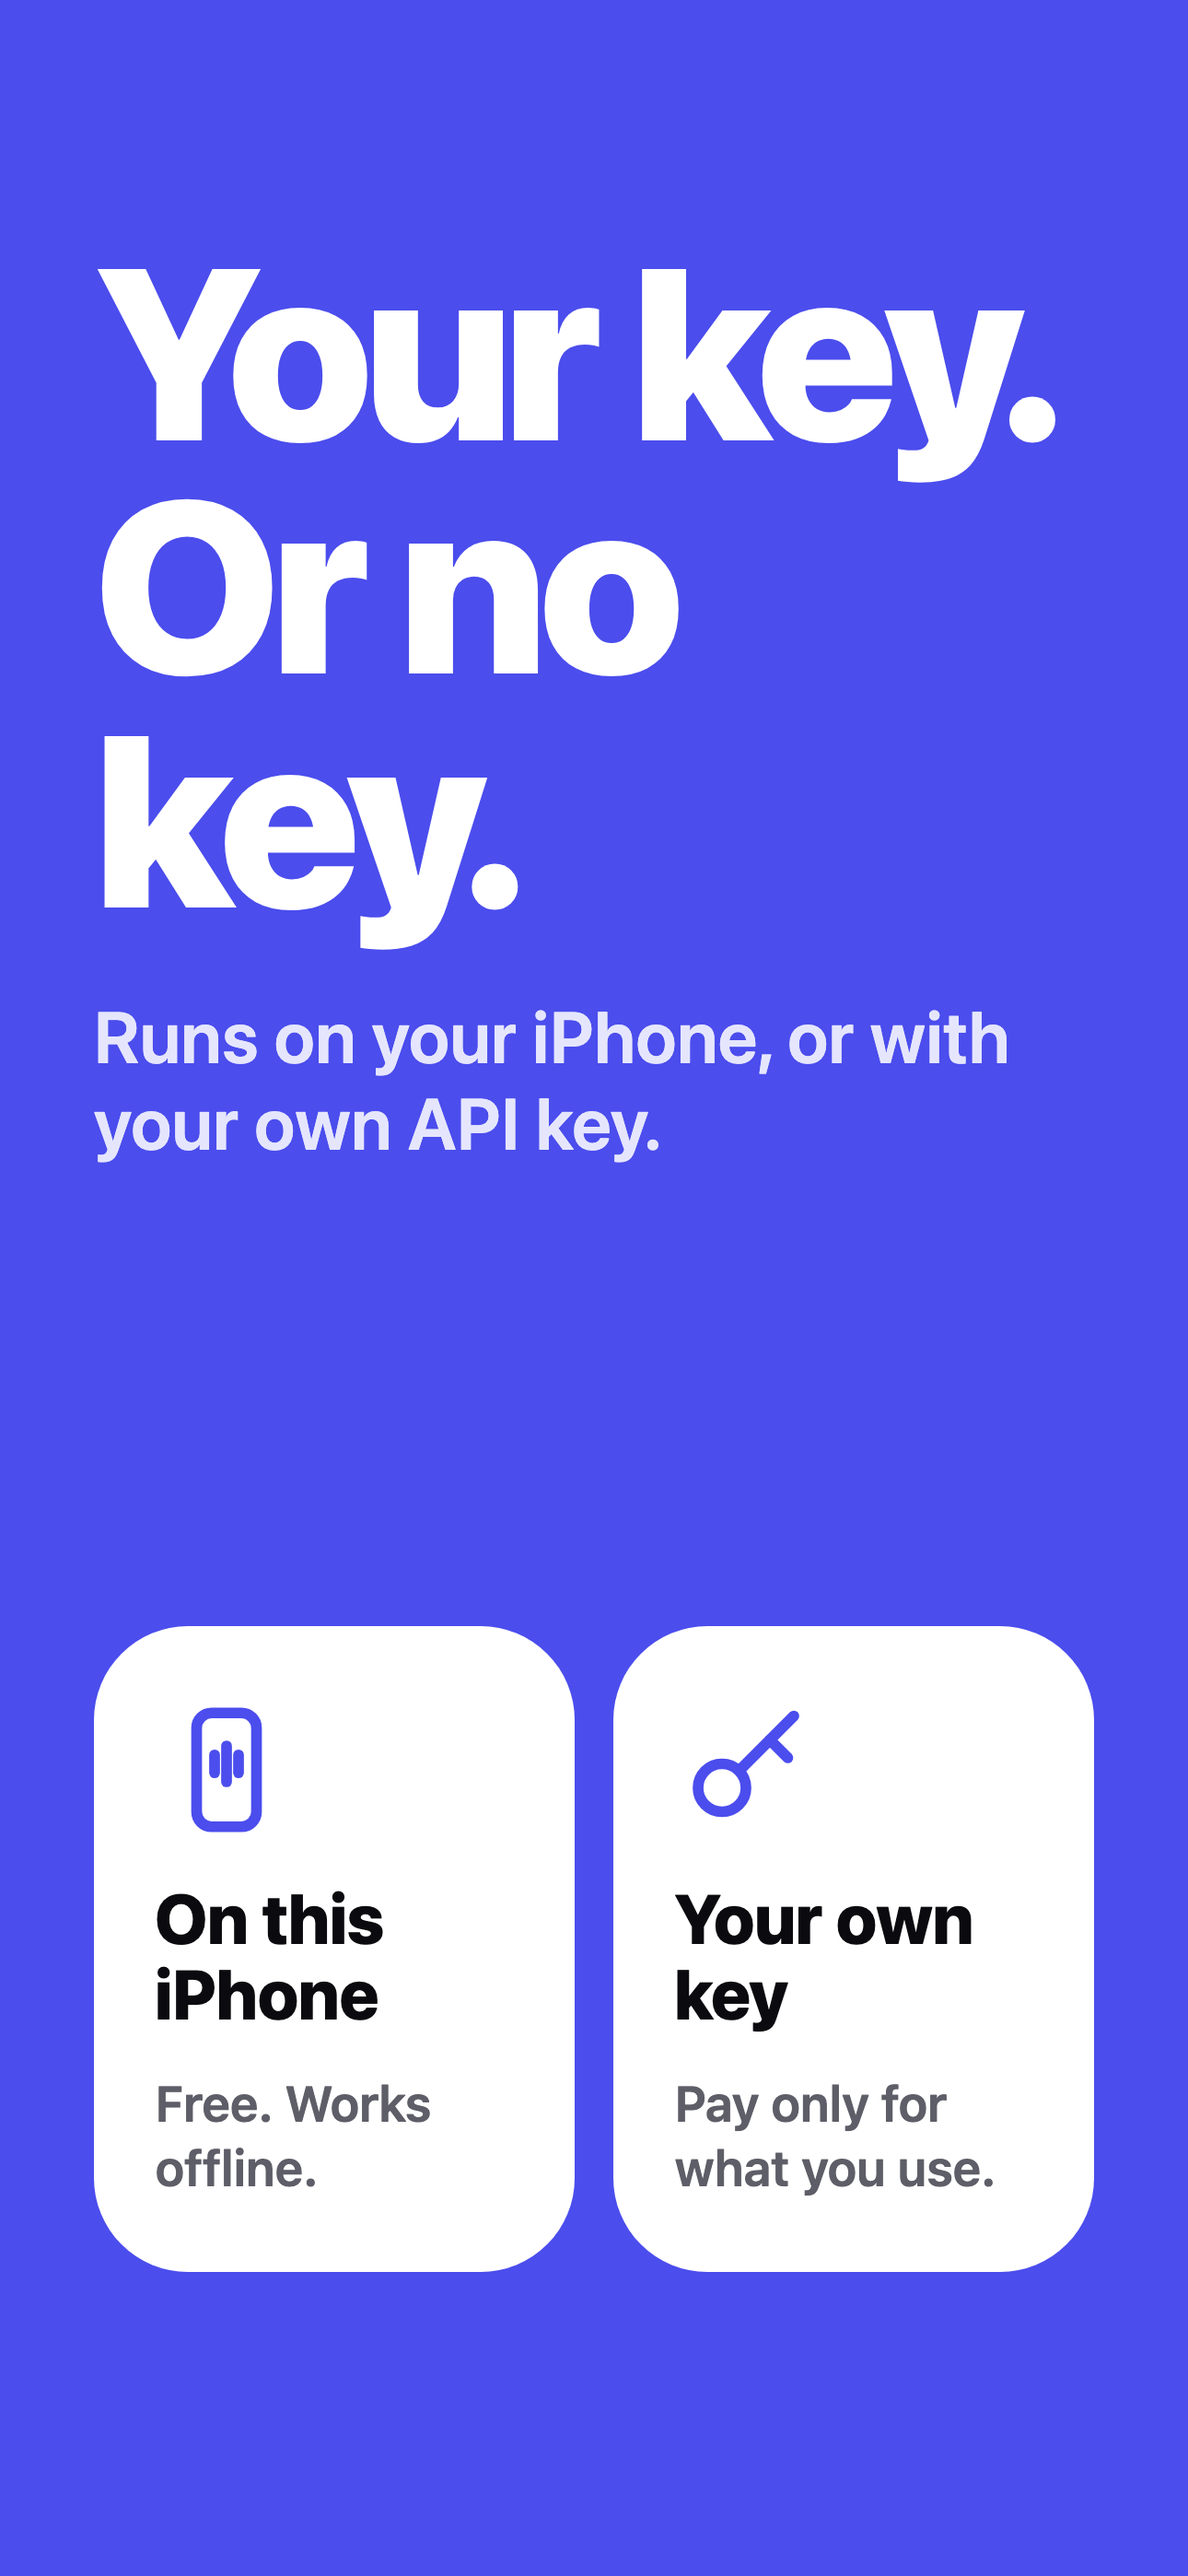
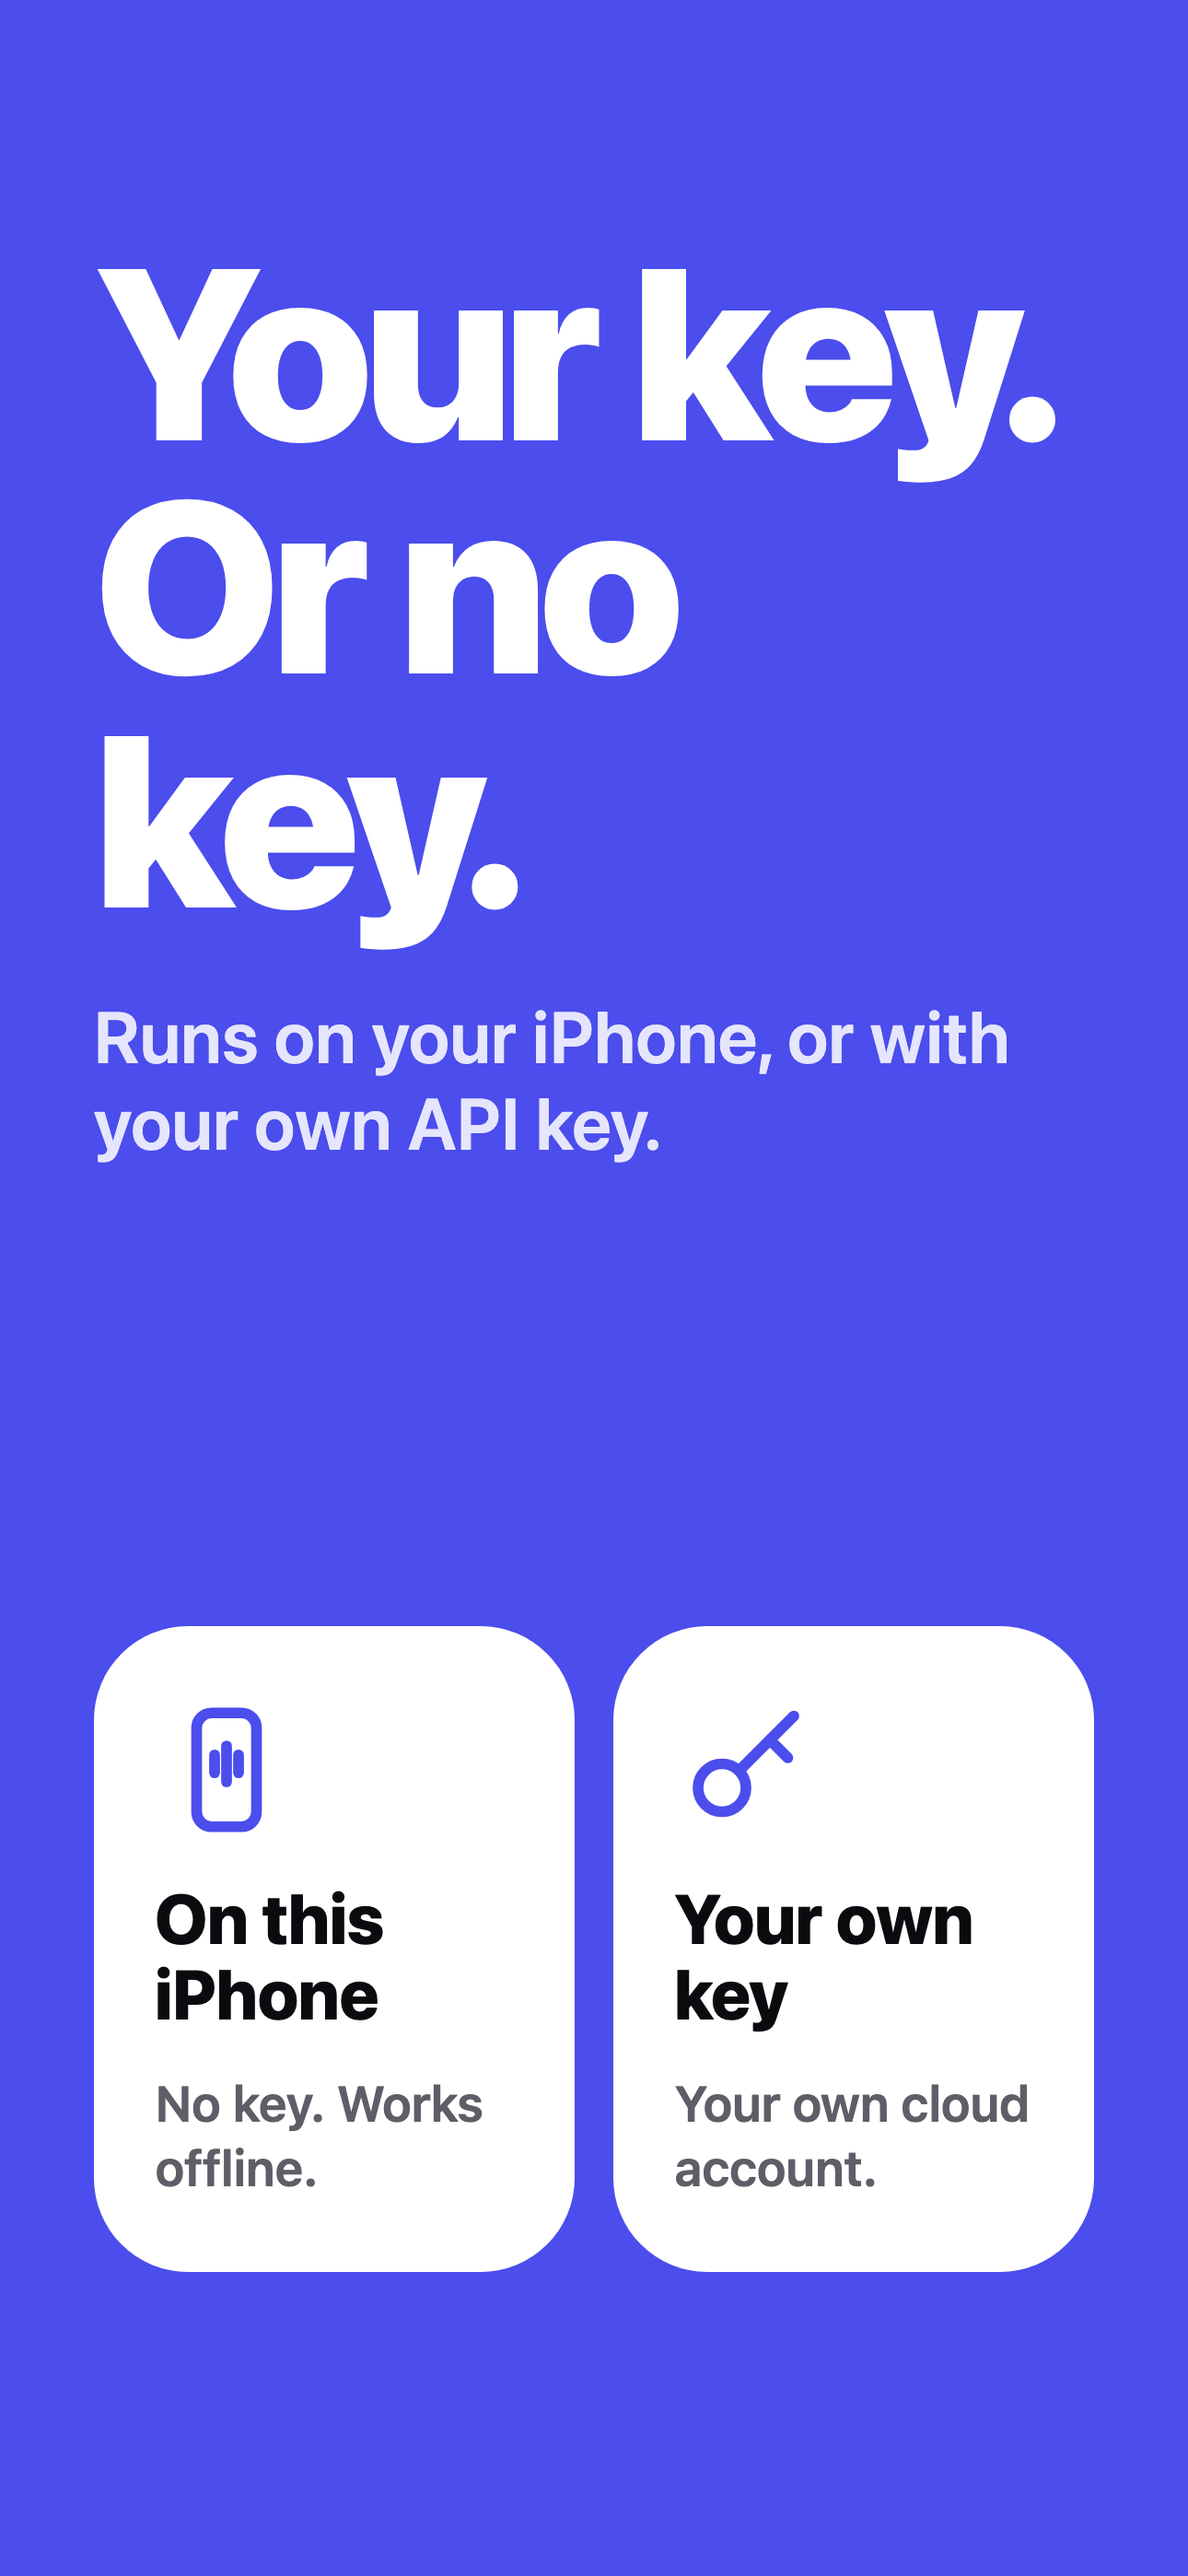
Store screenshot 3 without price words

Changed region(s): [[0.5581, 0.809, 0.8682, 0.8712], [0.124, 0.809, 0.4031, 0.8401]]

diff --git a/metadata/screenshots/source/3.html b/metadata/screenshots/source/3.html
@@ -6,12 +6,12 @@
       <div style="flex: 1; display: flex; flex-direction: column; align-items: flex-start; gap: 14px; padding: 26px 22px; border-radius: 34px; background: #FFFFFF; color: #0B0B0F">
         <svg aria-hidden="true" width="52" height="52" viewBox="0 0 24 24" fill="none" stroke="#4B4DED" stroke-width="1.8" stroke-linecap="round" stroke-linejoin="round"><rect x="7" y="2.5" width="10" height="19" rx="2.5"></rect><path d="M10 9.5v3"></path><path d="M12 8v6"></path><path d="M14 9.5v3"></path></svg>
         <div style="font-size: 25px; line-height: 1.1; font-weight: 800; letter-spacing: -0.01em">On this iPhone</div>
-        <div style="font-size: 18px; line-height: 1.3; font-weight: 600; color: #5E5E68">Free. Works offline.</div>
+        <div style="font-size: 18px; line-height: 1.3; font-weight: 600; color: #5E5E68">No key. Works offline.</div>
       </div>
       <div style="flex: 1; display: flex; flex-direction: column; align-items: flex-start; gap: 14px; padding: 26px 22px; border-radius: 34px; background: #FFFFFF; color: #0B0B0F">
         <svg aria-hidden="true" width="52" height="52" viewBox="0 0 24 24" fill="none" stroke="#4B4DED" stroke-width="1.8" stroke-linecap="round" stroke-linejoin="round"><circle cx="8" cy="15" r="4"></circle><path d="M11 12l9-9"></path><path d="M16 7l3 3"></path></svg>
         <div style="font-size: 25px; line-height: 1.1; font-weight: 800; letter-spacing: -0.01em">Your own key</div>
-        <div style="font-size: 18px; line-height: 1.3; font-weight: 600; color: #5E5E68">Pay only for what you use.</div>
+        <div style="font-size: 18px; line-height: 1.3; font-weight: 600; color: #5E5E68">Your own cloud account.</div>
       </div>
     </div>
   </div>
